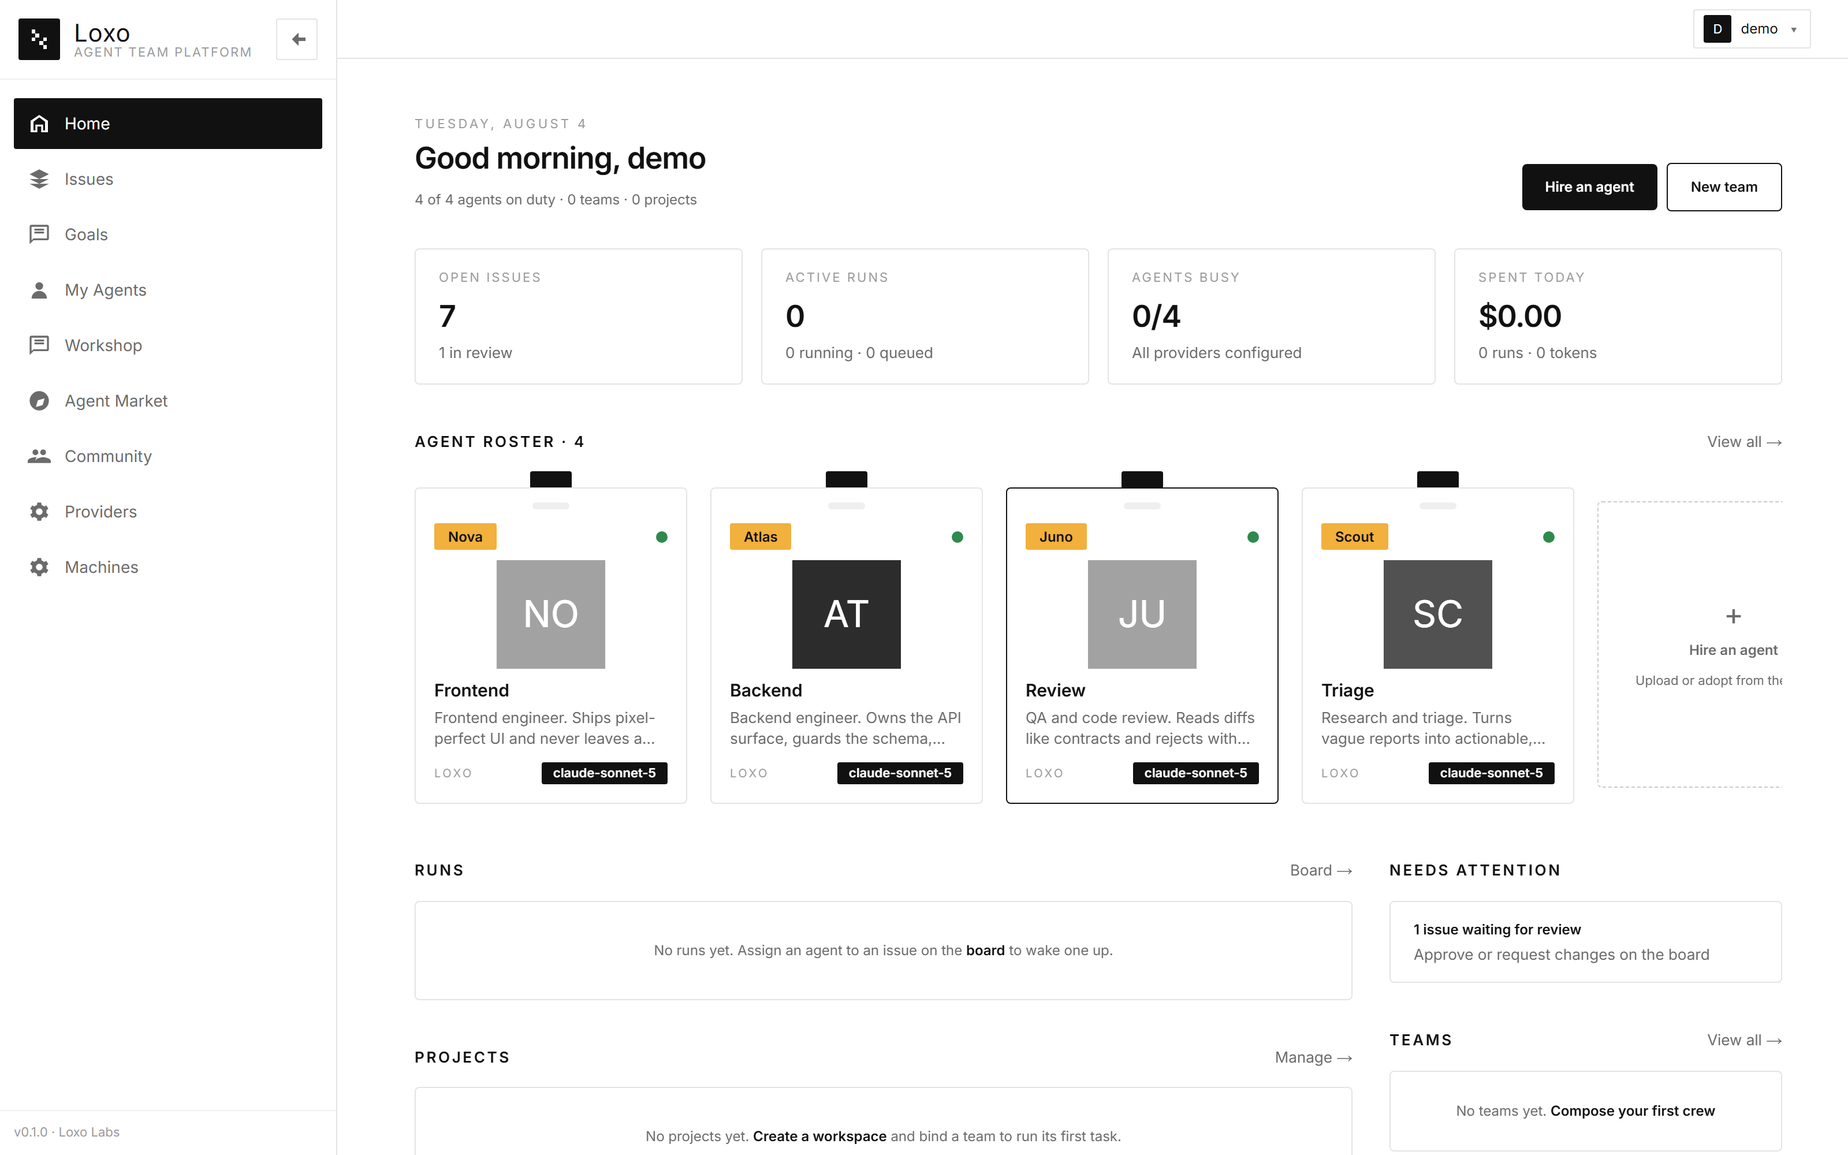
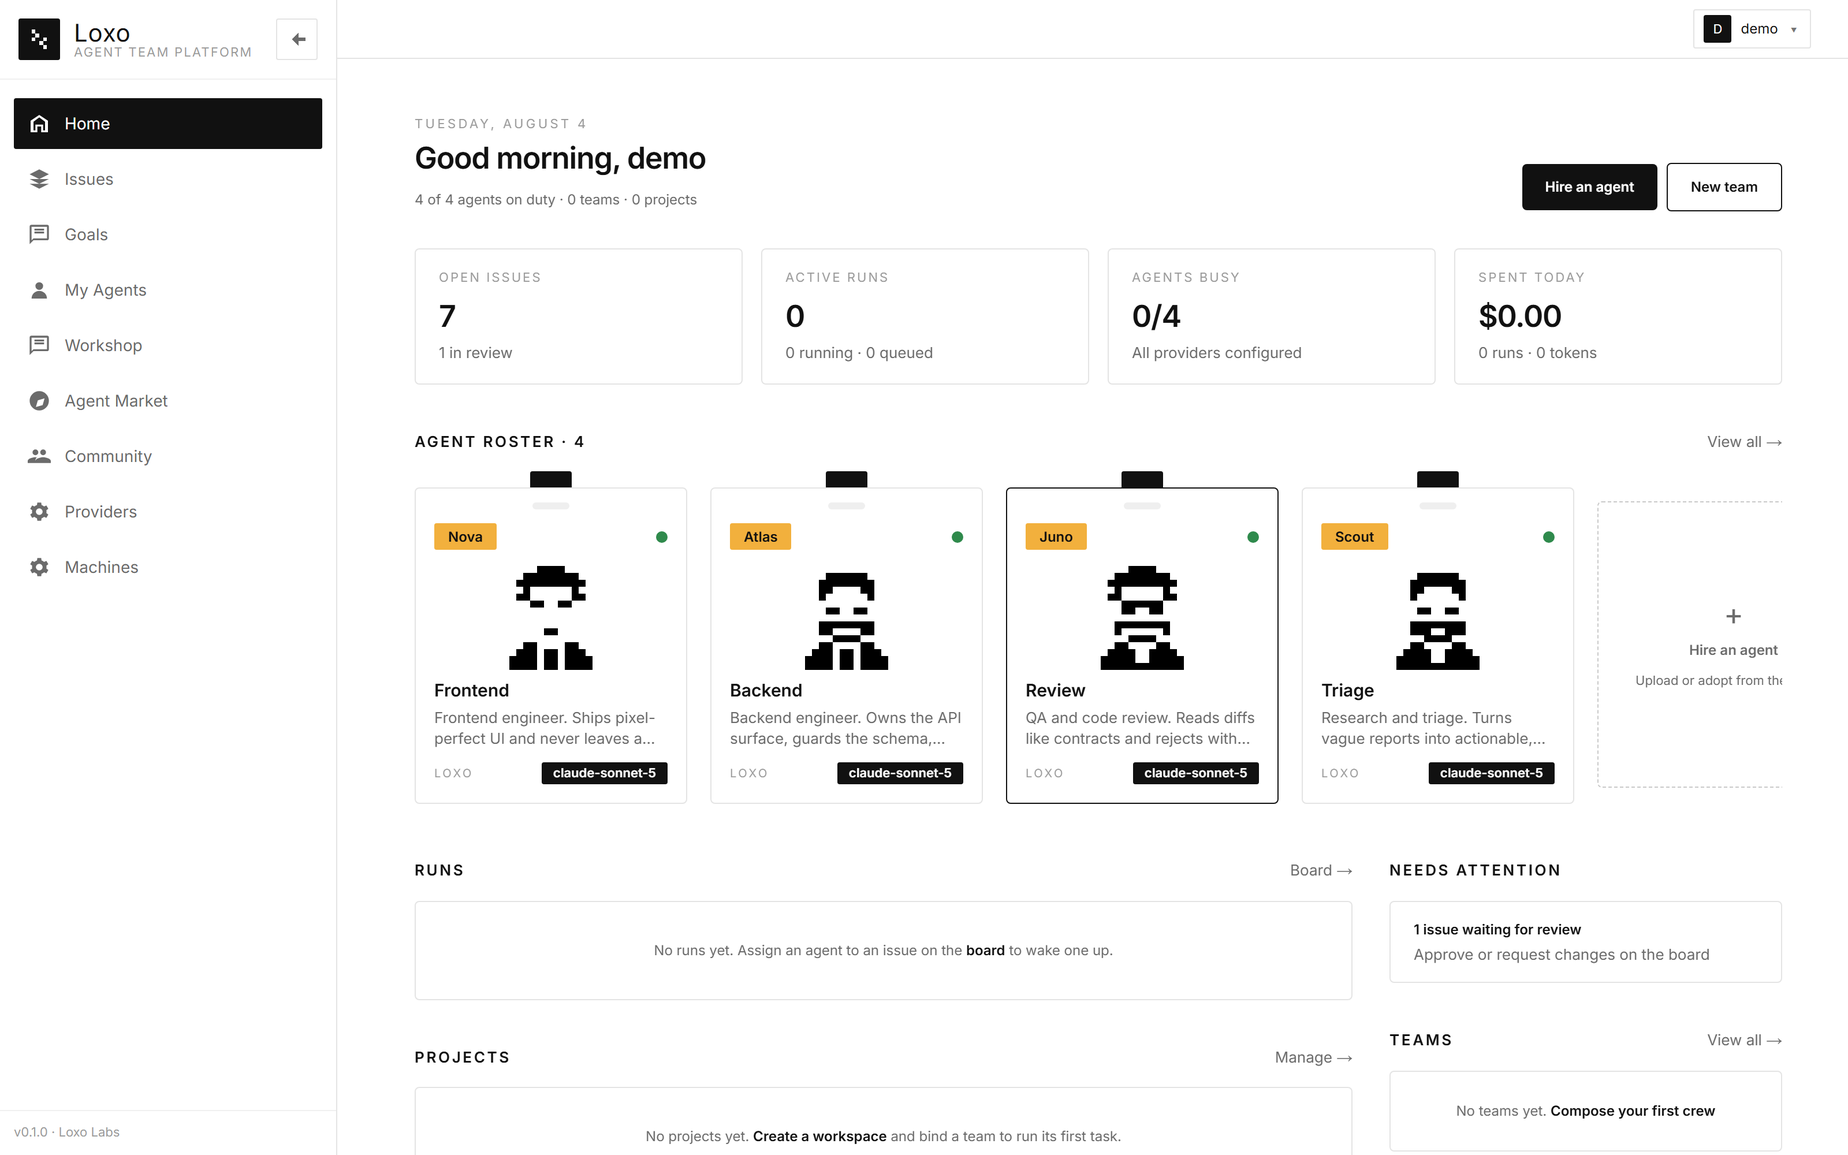
docs: restructure README and refresh dashboard screenshot

diff --git a/README.md b/README.md
@@ -1,170 +1,199 @@
 # Loxo
 
-**An operations platform for AI employee teams** — the loxodrome for your AI crew: a constant bearing through the chaos of multi-agent work. Run a roster of persistent AI agents the way you'd run a real team: set goals, assign issues, watch execution live, review the work, and let every cycle make the next one better — with a human holding final authority at every step.
+**A control plane for persistent AI agent teams.**
+
+Loxo coordinates continuous work across CLI coding agents and API agents: set goals, assign issues, isolate code changes, observe execution, review system-captured evidence, and keep humans in control of completion. Agent runtimes do the work; Loxo provides ownership, audit trails, review gates, and cost tracking around it.
+
+*TypeScript end to end · Express + Postgres backend · Next.js 14 frontend · 480 automated tests*
+
+![Dashboard — the live operations view: on-duty agent roster, run ledger, spend, and a needs-attention triage panel](docs/screenshots/dashboard.png)
+
+## Core loop
 
 ```
-Goal ──> Issue ──> Assign (wake) ──> Run ──> Review ──> Distill ──> better next Run
+Goal ──> Issue ──> Assign (wake) ──> Run ──> Review ──> Distill ──> better next run
                         ▲                                  │
                         └───────── rejection re-wakes ─────┘
 ```
 
-Loxo is not another agent runtime. Runtimes do the work; Loxo keeps continuous, multi-agent work **from spiraling out of control** — every task has an owner, an audit trail, a review gate, and a cost line.
+Every task has an owner, every run leaves evidence, and every completion passes through a human-controlled boundary. Rejected work returns to the assignee with feedback; an agent approval is a recommendation, not permission to ship.
 
-*TypeScript end to end · Express + Postgres backend · Next.js 14 frontend · 480 tests, all green.*
+## Why Loxo
 
-![Dashboard — the live operations view: on-duty agent roster, run ledger, spend, and a needs-attention triage panel](docs/screenshots/dashboard.png)
+### Evidence, not self-reporting
 
----
+Agent-authored summaries provide context, but the platform collects the proof.
 
-## What makes it interesting
+- **Isolated git workspaces** — each issue runs in its own git worktree and branch. After every run, including failures and cancellations, Loxo captures the diff, patch, file summary, and change fingerprint.
+- **Permission ceilings** — workspace access is enforced as read-only, edit, or full. Review turns are always read-only; tracked-file mutations become visible policy violations on the issue timeline.
+- **Snapshot-pinned approvals** — approvals bind to the exact captured change snapshot. If the workspace changes afterward, the approval becomes stale and cannot authorize a merge.
 
-### One control plane, six execution lanes
+### Concurrency enforced by the system
 
-Agents bind to any of **five CLI coding runtimes** — Claude Code, Codex, OpenCode, Hermes, OpenClaw — or run as **API agents** speaking OpenAI Chat Completions or Anthropic Messages (SSE), all behind a single turn dispatcher. Runtime detection is fingerprint-based (`.claude/` vs `.codex/` markers with confidence scoring), and per-runtime capability differences are absorbed entirely in the adapter layer.
+Agents are concurrent OS processes, so correctness cannot depend on caller discipline.
 
-The two lanes are deliberate: **CLI agents** do heavy work that changes the world (code, files, commands); **API agents** do desk work (triage, drafting, summarization) through a thin in-process tool loop. Same agent model, same governance, different execution weight.
+- **One admission surface** handles assignment, chat mention, manual wake, and review rejection. It merges duplicate triggers, claims the agent, locks the issue, or queues the request FIFO.
+- **Atomic cross-surface claims** use a conditional `UPDATE … RETURNING`, preventing chat and issue runs from executing the same agent simultaneously.
+- **Schema-backed issue locks** prevent duplicate execution of one issue across every trigger path.
 
-### Agents don't get trusted — they get audited
+### Human authority at the final boundary
 
-The platform's core stance: **agent-authored summaries are never treated as proof.** Evidence is collected by the system.
+Reviewer agents can reject work, reopen the issue, and re-wake the assignee. Their approvals only recommend completion; a human decides whether the issue closes. A three-cycle fuse stops automated rejection loops and escalates them for human review.
 
-- **Isolated git workspaces** — each issue's code work happens in its own git worktree on its own branch. After every run (success, failure, or cancellation alike) the platform captures the diff, patch file, and a change fingerprint. Evidence capture cannot be skipped, and a capture failure never masks the run result.
-- **Permission ceilings** — every agent has a workspace access tier (read-only / edit / full), enforced at run time. Review turns are always forced to read-only regardless of tier. If a read-only run still touches tracked files, git catches it and the violation is posted to the issue timeline as a visible policy breach.
-- **Snapshot-pinned approvals** — a review approval is bound to the exact captured change snapshot it looked at. If the workspace drifts afterward, the approval is stale; merges validate against the approved snapshot, so a sign-off can never ship code it didn't see.
+The learning loop follows the same rule. Retrospectives become agent-, team-, and project-scoped memos under strict context caps, but promotion into persistent agent memory requires human review.
 
-### Asymmetric review authority
+## Execution model
 
-Reviewer agents can **reject** — which reopens the issue and re-wakes the assignee with the feedback — but an **approval only recommends**: closing an issue stays a human decision. A three-cycle fuse breaks agent-to-agent rework loops: after three automated rejections the exchange halts and escalates to a human reviewer.
+### Six runtime options, two execution modes
 
-### Concurrency treated as a real distributed-systems problem
+Loxo supports five CLI coding runtimes — Claude Code, Codex, OpenCode, Hermes, and OpenClaw — plus API agents using OpenAI Chat Completions or Anthropic Messages.
 
-Agents are concurrent OS processes, so the platform handles the classic failure modes explicitly rather than by convention:
+- **CLI agents** handle code, files, and commands in isolated workspaces.
+- **API agents** handle triage, drafting, and summarization through an in-process tool loop.
 
-- **Single admission surface** — every wake trigger (issue assignment, chat mention, manual, review rejection) funnels through one entry point that merges duplicate triggers, atomically claims the agent, and locks the issue — or queues the request FIFO for later promotion.
-- **Atomic cross-surface claims** — chat turns and issue runs share one agent claim via a conditional `UPDATE … RETURNING`, so an agent never executes two turns at once across surfaces. Chat busy? The run queues. Run busy? Chat reports it. Turn ends? The next queued run is promoted.
-- **Per-issue execution locks live in the schema**, not in application convention — the same issue can never run twice concurrently.
+Both modes use the same agent model, governance rules, run ledger, and review flow. Runtime detection uses local markers and confidence scoring, while adapter boundaries absorb capability differences.
 
-### An MCP control plane with self-expiring credentials
+### MCP control plane
 
-Woken agents call back into the platform through a six-tool **MCP server** (`get_issue`, `comment_on_issue`, `update_issue_status`, `submit_review`, `ask_blocker`, `submit_result`). Each run is issued a **stateless HMAC-signed run token**: nothing is stored, nothing needs revoking — the token is valid exactly as long as the run is alive, collapsing credential revocation into a state lookup. Prompt injection with output parsing exists only as a fallback for runtimes without MCP support.
+Woken agents call back through six MCP tools: `get_issue`, `comment_on_issue`, `update_issue_status`, `submit_review`, `ask_blocker`, and `submit_result`. Every run receives a stateless HMAC-signed token whose validity is checked against active run state. Output parsing remains a fallback for runtimes without MCP support.
 
-### A learning loop with a human gate
+### Deterministic workflow automation
 
-Run retrospectives are distilled into agent-, team-, and project-scoped memos and re-injected into later prompts — under hard caps (four memos per scope, 300 characters each) to guard against context rot. Distillation is automatic; promotion into an agent's working memory is human-reviewed. Agent behavior never changes silently.
+Repeatable work compiles into a validated workflow DSL executed by a deterministic DAG engine. It supports expected-edge joins, conditional branches, skip propagation, bounded loops, and concurrency caps. Execution state is event-sourced in Postgres, allowing interrupted workflows to recover after restart.
 
-### Workflow automations, event-sourced
+Workflows can be drawn on a React Flow canvas with bidirectional DSL conversion and auto-layout, or generated from natural language with deterministic normalization, repair passes, and thirteen structural validation rules around the LLM.
 
-Repeatable work compiles into a validated workflow DSL executed by a deterministic DAG engine: expected-edge joins, conditional branches, skip propagation, bounded loops, and concurrency caps. Execution state is **event-sourced in Postgres** — interrupted executions recover on restart instead of being lost. Workflows can be drawn on a visual canvas (React Flow, bidirectional DSL ⟷ canvas conversion with auto-layout) or generated from natural language with deterministic normalize-and-repair passes and thirteen structural validation rules behind the LLM.
+### Execution on connected machines
 
-### Run anywhere, govern in one place
-
-A lightweight **machine daemon** pairs a user's own computer to the platform over a reconnecting WebSocket (pairing codes, machine tokens, allowed-workdir fencing, exponential backoff), so agents can execute on hardware you control while the control plane stays centralized.
-
----
+A lightweight daemon pairs a user's computer with Loxo over a reconnecting WebSocket. Pairing codes, hashed machine tokens, allowed-workdir fencing, and exponential backoff let agents use local runtimes and files while the control plane remains centralized.
 
 ## Feature tour
 
 | Surface | What it does |
 |---|---|
-| **Dashboard** | Live operations view: open issues, active runs, busy agents, today's spend, a needs-attention triage panel, and an activity feed. |
-| **Issue board** | Kanban with a full server-side state machine; the client mirrors legal transitions to dim invalid drop targets, and drag ordering uses fractional midpoints so a move is one `PATCH`, never a renumber. |
-| **Chat** | One thread per agent, WebSocket-backed. Any conversation topic converts to an issue in one click — the LLM drafts it, you edit, the thread keeps a linked receipt. |
-| **Agents** | Persistent employees with runtime bindings, provider credentials, skills, three-scope memory, and per-agent Slack integration. |
-| **Runs** | Every wake-up produces a run: full transcript, status, token usage, and cost — bidirectionally traceable with its issue. |
-| **Workshop** | Multi-agent discussion room with a deterministic speaker scorer (role relevance, topic match, silence decay), turn caps, and stop phrases — group deliberation without runaway API spend. Discussions deposit into a shared whiteboard that compiles into versioned workflow drafts. |
-| **Projects & goals** | Projects group issues, workspaces, and automations; a hierarchical goal tree gives issues a "why" axis independent of the "where" axis. |
-| **Marketplace** | Publish and adopt packaged agents, API-agent presets, and team templates. Publishing sanitizes workspaces — sensitive paths omitted, secrets (API keys, private keys, JWTs) redacted — and the same secret scan runs client-side before upload so credentials never leave the browser unnoticed. |
-| **Slack** | Route Slack messages to agents and teams: HMAC signature verification with constant-time comparison, a five-minute replay window, and event-id deduplication. |
+| **Dashboard** | Shows open issues, active runs, busy agents, daily spend, recent activity, and work that needs attention. |
+| **Issue board** | Enforces a server-side state machine. The client mirrors valid transitions, while fractional ordering makes a drag operation one `PATCH` instead of a full-column renumber. |
+| **Chat** | Provides one WebSocket-backed thread per agent. A conversation can become an editable LLM-drafted issue while retaining a link to its source. |
+| **Agents** | Manages persistent agents, runtime bindings, provider credentials, skills, scoped memory, permission levels, and Slack routing. |
+| **Runs** | Records every wake-up with its transcript, status, token usage, cost, issue, and captured workspace evidence. |
+| **Workshop** | Runs bounded multi-agent discussions with deterministic speaker selection, stop phrases, and a shared whiteboard that can become a versioned workflow draft. |
+| **Projects & goals** | Groups issues, repositories, workspaces, and automations while a hierarchical goal tree preserves the reason behind the work. |
+| **Marketplace** | Publishes and adopts packaged agents, API presets, and team templates after server- and client-side secret scanning and workspace sanitization. |
+| **Slack** | Routes signed Slack events to agents and teams with constant-time signature verification, replay protection, and event deduplication. |
 
 ![Issue receipt — every issue renders as a thermal-printer work order; the rubber stamp is the status control](docs/screenshots/issue-receipt.png)
-
----
 
 ## Architecture
 
 ```mermaid
 flowchart LR
     subgraph Client
-        FE["Next.js 14 web app<br/>(React Flow canvas, Kanban, chat)"]
+        FE[Next.js 14 web app<br/>React Flow, Kanban, chat]
     end
-    subgraph Server["Backend — single port"]
-        API["Express REST API"]
-        WS["WebSocket gateway<br/>(chat, workflow events)"]
-        WAKE["Wake admission surface<br/>(claims · locks · FIFO)"]
-        ENGINE["Workflow engine<br/>(event-sourced DAG executor)"]
-        MCP["MCP control plane<br/>(6 tools · HMAC run tokens)"]
-        RUNNER["Agent runner<br/>(5 CLI runtimes + API lane)"]
+    subgraph Server[Backend REST and WebSocket on port 4000]
+        API[Express REST API]
+        WS[WebSocket gateway<br/>chat, workflow, machines]
+        WAKE[Wake admission<br/>claims, locks, FIFO]
+        ENGINE[Workflow engine<br/>event-sourced DAG executor]
+        MCP[MCP control plane<br/>6 tools and run tokens]
+        RUNNER[Agent runner<br/>5 CLI runtimes and API mode]
     end
     subgraph Data
-        PG[("Postgres 16<br/>34 tables · Drizzle ORM")]
-        FS["Workspace storage<br/>(git worktrees, manifests)"]
+        PG[(Postgres 16<br/>34 tables and Drizzle ORM)]
+        FS[Workspace storage<br/>git worktrees and manifests]
     end
-    DAEMON["Machine daemon<br/>(user hardware)"]
-    LLM["OpenAI / Anthropic APIs"]
-    SLACK["Slack"]
+    DAEMON[Machine daemon<br/>user hardware]
+    LLM[OpenAI and Anthropic APIs]
+    SLACK[Slack]
 
-    FE -->|REST + WS| API
-    FE --- WS
+    FE -->|REST| API
+    FE -->|WebSocket upgrade| WS
     API --> WAKE --> RUNNER
+    API --> ENGINE
     RUNNER --> MCP
     RUNNER -->|spawn CLI| FS
     RUNNER -->|SSE| LLM
     ENGINE --> PG
     API --> PG
-    RUNNER -.->|paired WS| DAEMON
+    RUNNER -.->|paired machine turn| DAEMON
     SLACK -->|signed webhooks| API
 ```
 
-- **Single port** serves REST and WebSocket via HTTP upgrade.
-- **Postgres 16 + Drizzle ORM** with migration history; join tables over JSON columns for relations; execution locks and review state live in the schema.
-- **Security posture:** provider API keys and IM secrets encrypted at rest with AES-256-GCM; the server refuses to start without `JWT_SECRET` (fail-closed); Slack webhook paths are derived from the master key so forged URLs die without a database lookup; path-safety checks fence all workspace file access.
-- **Monorepo:** `backend/` (Express API, ~20 domain modules), `frontend/` (Next.js App Router, 22 routes, one deliberate Zustand store), `daemon/` (headless machine agent), `packages/shared` (protocol and runner types shared by all three).
-
----
+- **One backend port** serves REST and WebSocket traffic through HTTP upgrade.
+- **Postgres 16 + Drizzle ORM** provides migration history, normalized relations, execution locks, review state, and event-sourced workflow state.
+- **Security posture:** provider keys and integration secrets use AES-256-GCM encryption at rest; startup fails without `JWT_SECRET`; webhook paths derive from the master key; path checks fence workspace access.
+- **Monorepo:** `backend/` contains about 20 domain modules, `frontend/` contains 20 App Router routes, `daemon/` hosts the machine connector, and `packages/shared/` holds shared runner and protocol types.
 
 ## Getting started
 
-Prerequisites: Node 20+, Docker.
+Prerequisites: Node.js 20+, Docker, and Git.
+
+Start Postgres from the repository root:
 
 ```bash
-# 1. Postgres (host port 5434)
 docker compose up -d
+```
 
-# 2. Backend — REST + WebSocket on :4000
+Start the backend in one terminal:
+
+```bash
 cd backend
-cp .env.example .env   # set JWT_SECRET and SECRETS_KEY (generation command inside)
+cp .env.example .env   # PowerShell: Copy-Item .env.example .env
+# Set JWT_SECRET and SECRETS_KEY; generation guidance is in the file.
 npm install
 npm run db:migrate
 npm run dev
+```
 
-# 3. Frontend — http://localhost:3000
-cd ../frontend
-cp .env.example .env
+Start the frontend in a second terminal:
+
+```bash
+cd frontend
+cp .env.example .env   # PowerShell: Copy-Item .env.example .env
 npm install
 npm run dev
 ```
 
-Optional — let agents execute on your own machine:
+Open `http://localhost:3000`, register an account, and then:
+
+1. Configure a provider or verify a local CLI runtime.
+2. Create an agent and a project.
+3. Create an issue, assign it, and inspect the resulting run and evidence.
+
+For code work, bind a Git repository to the project. To execute agents on another machine, start the optional daemon:
 
 ```bash
-cd daemon && npm install && npm run dev   # prints a pairing code
-# approve it under Settings → Machines in the web UI
+cd daemon
+npm install
+npm run dev   # prints a pairing code
 ```
+
+Approve the code under **Settings → Machines**, then bind a machine-backed agent to an allowed working directory.
 
 ## Testing
 
 ```bash
-cd backend && npm test    # 467 tests — API, engine, governance, integrations (vitest + supertest)
-cd daemon  && npm test    # 13 tests — turn relay, workdir fencing
+cd backend && npm test    # 467 tests — API, engine, governance, and integrations
+cd daemon  && npm test    # 13 tests — turn relay and workdir fencing
 ```
 
-The suite covers the wake admission surface and cross-surface claims, workspace capture and permission enforcement, review pinning, the workflow executor (including join/race regressions), Slack signature verification, and marketplace publish sanitization.
+The suite covers admission and cross-surface claims, workspace capture, permission enforcement, snapshot-bound review, workflow join and race regressions, Slack signature verification, and marketplace publish sanitization.
+
+## Status and roadmap
+
+Loxo is a working platform under active solo development. The core loop — issues, wakes, runs, reviews, workspaces, and memos — is implemented and tested end to end. Planned operational work includes:
+
+- **Observability** — structured traces and latency/error metrics, per-agent budget alerts and hard stops, and heartbeat checks for long-lived agents.
+- **Slack inbound** — direct conversion of inbound Slack messages into issues; routing to agents and teams already works.
+- **Approvals and triage** — a notification inbox, approval center, issue priorities, and sorting controls.
+- **Scale-out** — reporting lines for larger agent organizations, group messaging, and a shared document library.
+- **Distribution** — a desktop build, multi-tenant deployment, and a plugin system.
 
 ## Repository layout
 
 ```
-backend/    Express + TypeScript API, WebSocket gateway, agent runner, workflow engine
-frontend/   Next.js 14 web app (App Router, Tailwind, React Flow, Zustand)
-daemon/     Headless daemon that pairs a user machine to the platform
-packages/   Shared protocol and type definitions
+backend/          Express API, WebSocket gateway, runner, and workflow engine
+frontend/         Next.js 14 app with Tailwind, React Flow, and Zustand
+daemon/           Headless connector for execution on paired machines
+packages/shared/  Runner and machine-protocol types shared across processes
 ```
